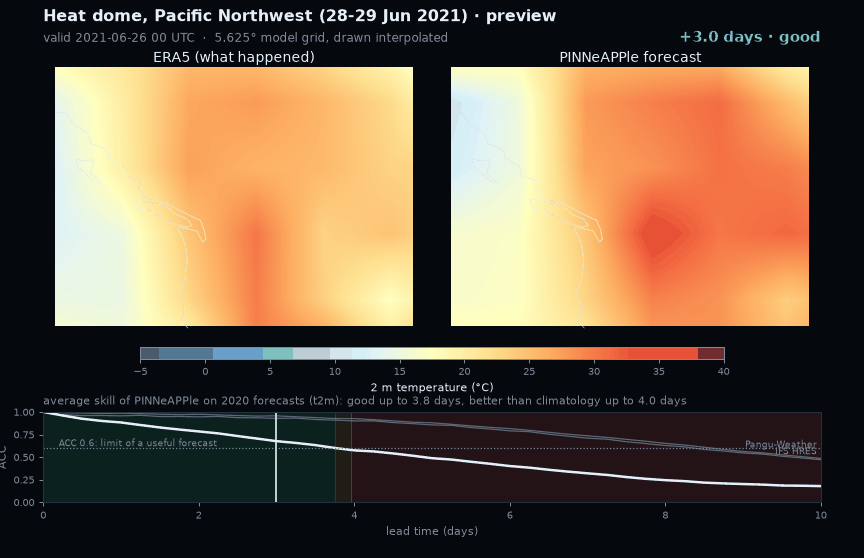
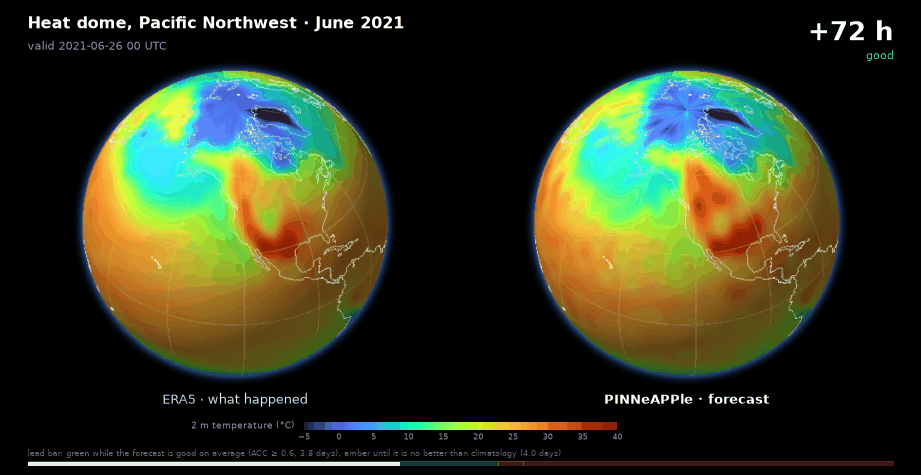
Weather: Earth-2 style forecast animation (lit globes, smooth fields, lead bar)
earth2_gif draws ERA5 and the forecast on lit globes over black: cubic upsampling
on the sphere for display, interpolated frames between the 6-hour states, a slow
rotation, an atmosphere glow, coastlines and a faint graticule drawn into the
bitmap, the lead in large type and a thin lead bar coloured by the horizon. The
event GIFs of run_use_cases.py use it, and the heat-dome preview is redrawn.

diff --git a/pinneapple_physics/weather/viz.py b/pinneapple_physics/weather/viz.py
@@ -238,3 +238,161 @@ def skill_figure(path, leads_h, curves: dict, horizons_by_model: dict, var: str,
     fig.savefig(path, dpi=dpi, facecolor=BG)
     plt.close(fig)
     return Path(path)
+
+
+# ------------------------------------------------------------------ Earth-2 style globes
+
+def upsample_sphere(field: np.ndarray, lat: np.ndarray, lon: np.ndarray, factor: int = 4):
+    """Cubic upsampling of a (lat, lon) field, periodic in longitude, for display only."""
+    from scipy.ndimage import zoom
+
+    p = 3
+    padded = np.concatenate([field[:, -p:], field, field[:, :p]], axis=1)
+    padded = np.concatenate([padded[:1].repeat(p, 0), padded, padded[-1:].repeat(p, 0)], axis=0)
+    z = zoom(padded, factor, order=3, mode="nearest")
+    z = z[p * factor:-p * factor, p * factor:-p * factor]
+    dlat, dlon = lat[1] - lat[0], lon[1] - lon[0]
+    new_lat = lat[0] - dlat / 2 + (np.arange(z.shape[0]) + 0.5) * dlat / factor
+    new_lon = lon[0] - dlon / 2 + (np.arange(z.shape[1]) + 0.5) * dlon / factor
+    return z, new_lat, np.mod(new_lon, 360.0)
+
+
+def _globe_rgb(field, lat, lon, center, size, cmap, norm, lines):
+    """RGBA image of a lit globe: field colours, day-side shading, coastlines and graticule."""
+    la0, lo0 = np.deg2rad(center[0]), np.deg2rad(center[1])
+    u = np.linspace(-1.12, 1.12, size)
+    X, Y = np.meshgrid(u, -u)
+    r2 = X ** 2 + Y ** 2
+    inside = r2 <= 1
+    z = np.sqrt(np.clip(1 - r2, 0, None))
+    qlat = np.arcsin(np.clip(Y * np.cos(la0) + z * np.sin(la0), -1, 1))
+    qlon = lo0 + np.arctan2(X, z * np.cos(la0) - Y * np.sin(la0))
+    f = _sample(field, lat, lon, np.rad2deg(qlat), np.rad2deg(qlon))
+    rgb = cmap(norm(np.where(inside, f, np.nan)))[..., :3]
+    light = np.array([-0.45, 0.55, 0.70])
+    light /= np.linalg.norm(light)
+    shade = np.clip(X * light[0] + Y * light[1] + z * light[2], 0, 1)
+    rgb = rgb * (0.38 + 0.72 * shade[..., None]) + 0.10 * shade[..., None] ** 12      # diffuse + soft highlight
+    # graticule every 30 degrees
+    glat, glon = np.rad2deg(qlat), np.mod(np.rad2deg(qlon), 360)
+    grid = ((np.abs(((glat + 15) % 30) - 15) < 0.3) |
+            ((np.abs(((glon + 15) % 30) - 15) < 0.3 / np.maximum(np.cos(qlat), 0.2)) & (np.abs(glat) < 80)))
+    rgb = np.where((grid & inside)[..., None], rgb * 0.85 + 0.15 * 0.85, rgb)
+    out = np.zeros((size, size, 4))
+    out[..., :3] = np.clip(rgb, 0, 1)
+    out[..., 3] = inside.astype(float)
+    # atmosphere: a thin blue glow just outside the limb
+    rr = np.sqrt(r2)
+    glow = np.clip(1 - (rr - 1) / 0.09, 0, 1) * (rr > 1)
+    out[..., :3] = np.where((rr > 1)[..., None], np.array([0.30, 0.55, 1.0]) * glow[..., None], out[..., :3])
+    out[..., 3] = np.where(rr > 1, 0.55 * glow ** 2, out[..., 3])
+    # coastlines (drawn into the image so the frame is a single bitmap)
+    for ln in lines:
+        lo_, la_ = np.deg2rad(ln[:, 0]), np.deg2rad(ln[:, 1])
+        cosc = np.sin(la0) * np.sin(la_) + np.cos(la0) * np.cos(la_) * np.cos(lo_ - lo0)
+        px = np.cos(la_) * np.sin(lo_ - lo0)
+        py = np.cos(la0) * np.sin(la_) - np.sin(la0) * np.cos(la_) * np.cos(lo_ - lo0)
+        ix = np.round((px / 1.12 + 1) / 2 * (size - 1)).astype(int)
+        iy = np.round((1 - py / 1.12) / 2 * (size - 1)).astype(int)
+        ok = (cosc > 0.02) & (ix >= 0) & (ix < size) & (iy >= 0) & (iy < size)
+        for a, b in ((ix, iy),):
+            # densify segments so the line is continuous
+            for k in range(len(a) - 1):
+                if ok[k] and ok[k + 1]:
+                    n = int(max(abs(a[k + 1] - a[k]), abs(b[k + 1] - b[k]))) + 1
+                    xs = np.linspace(a[k], a[k + 1], n).round().astype(int)
+                    ys = np.linspace(b[k], b[k + 1], n).round().astype(int)
+                    out[ys, xs, :3] = out[ys, xs, :3] * 0.5 + 0.5 * np.array([0.93, 0.95, 0.98])
+    return out
+
+
+def earth2_gif(path, var, truth, forecast, lat, lon, times, *, lead_hours, horizon, title, center=(20.0, -30.0),
+               rotate_deg_per_frame=0.0, region=None, model_name="PINNeAPPle", vmin=None, vmax=None,
+               substeps=3, size=420, fps=12, dpi=80, cmap=None):
+    """NVIDIA Earth-2 style animation: ERA5 (left) and the forecast (right) on lit globes over black, smooth fields
+    (cubic upsampling on the sphere, ``substeps`` interpolated frames between 6-hour states), the globe slowly
+    rotating, the lead in large type and a thin lead bar coloured by the horizon (good, fading, no skill).
+    ``truth``/``forecast``: (n, lat, lon) in physical units at ``lead_hours``."""
+    import matplotlib
+
+    matplotlib.use("Agg")
+    import matplotlib.pyplot as plt
+    from matplotlib.animation import FuncAnimation, PillowWriter
+    from matplotlib.colors import Normalize
+
+    T = display_units(var, np.asarray(truth, float))
+    F = display_units(var, np.asarray(forecast, float))
+    lo = np.nanpercentile(T, 1) if vmin is None else vmin
+    hi = np.nanpercentile(T, 99) if vmax is None else vmax
+    cm = plt.get_cmap(cmap or {"t2m": "turbo", "t850": "turbo", "wind10": "magma", "msl": "viridis",
+                               "z500": "viridis", "tp6": "Blues"}.get(var, "turbo"))
+    norm = Normalize(lo, hi)
+    lines = coastlines()
+    up = [upsample_sphere(x, lat, lon) for x in T], [upsample_sphere(x, lat, lon) for x in F]
+    flat, flon = up[0][0][1], up[0][0][2]
+    TU = np.stack([u[0] for u in up[0]])
+    FU = np.stack([u[0] for u in up[1]])
+    n = len(T)
+    frames = [(k, s) for k in range(n - 1) for s in range(substeps)] + [(n - 1, 0)]
+
+    fig = plt.figure(figsize=(12.8, 6.6), facecolor="black")
+    axL = fig.add_axes([0.02, 0.17, 0.47, 0.72])
+    axR = fig.add_axes([0.51, 0.17, 0.47, 0.72])
+    ims = []
+    for ax in (axL, axR):
+        ax.set_facecolor("black")
+        ax.axis("off")
+        ims.append(ax.imshow(np.zeros((size, size, 4)), interpolation="bilinear"))
+    fig.text(0.255, 0.15, "ERA5 · what happened", color="#c9d3df", ha="center", fontsize=13)
+    fig.text(0.745, 0.15, f"{model_name} · forecast", color="#ffffff", ha="center", fontsize=13, weight="bold")
+    fig.text(0.03, 0.94, title, color="white", fontsize=16, weight="bold")
+    stamp = fig.text(0.03, 0.895, "", color="#8f9bab", fontsize=11)
+    big = fig.text(0.97, 0.915, "", color="white", fontsize=26, weight="bold", ha="right")
+    state = fig.text(0.97, 0.875, "", color=GOOD, fontsize=11, ha="right")
+    # thin colour bar and lead bar
+    cax = fig.add_axes([0.33, 0.095, 0.34, 0.016])
+    cb = fig.colorbar(plt.cm.ScalarMappable(norm=norm, cmap=cm), cax=cax, orientation="horizontal")
+    cb.outline.set_visible(False)
+    cb.ax.tick_params(colors="#8f9bab", labelsize=8, length=0)
+    fig.text(0.32, 0.098, LABEL.get(var, var), color="#8f9bab", fontsize=9, ha="right")
+    bar = fig.add_axes([0.03, 0.018, 0.94, 0.012])
+    bar.set_xlim(0, lead_hours[-1])
+    bar.set_ylim(0, 1)
+    bar.axis("off")
+    U, N, L = horizon["useful_hours"], horizon["no_skill_hours"], lead_hours[-1]
+    bar.axvspan(0, min(U, L), color=GOOD, alpha=0.25)
+    if U < L:
+        bar.axvspan(U, min(N, L), color=FADING, alpha=0.25)
+    if N < L:
+        bar.axvspan(N, L, color=POOR, alpha=0.25)
+    from matplotlib.patches import Rectangle
+
+    prog = bar.add_patch(Rectangle((0, 0.15), 0, 0.7, color="white", alpha=0.9))
+    fig.text(0.03, 0.04, f"lead bar: green while the forecast is good on average (ACC ≥ 0.6, {U / 24:.1f} days), "
+             f"amber until it is no better than climatology" + (f" ({N / 24:.1f} days)" if np.isfinite(N) else ""),
+             color="#5f6b7a", fontsize=8)
+
+    def frame(i):
+        k, s = frames[i]
+        a = s / substeps
+        t_f = TU[k] if k == n - 1 else (1 - a) * TU[k] + a * TU[k + 1]
+        f_f = FU[k] if k == n - 1 else (1 - a) * FU[k] + a * FU[k + 1]
+        c = (center[0], center[1] + rotate_deg_per_frame * i)
+        ims[0].set_data(_globe_rgb(t_f, flat, flon, c, size, cm, norm, lines))
+        ims[1].set_data(_globe_rgb(f_f, flat, flon, c, size, cm, norm, lines))
+        lead = lead_hours[k] + a * (lead_hours[min(k + 1, n - 1)] - lead_hours[k])
+        st, col = _status(lead, horizon)
+        big.set_text(f"+{lead:.0f} h")
+        state.set_text(st)
+        state.set_color(col)
+        tv = times[k] + np.timedelta64(int(a * 6 * 60), "m")
+        stamp.set_text(f"valid {np.datetime_as_string(tv, unit='h').replace('T', ' ')} UTC")
+        prog.set_width(lead)
+        return ims + [big, state, stamp]
+
+    anim = FuncAnimation(fig, frame, frames=len(frames), blit=False)
+    path = Path(path)
+    anim.save(path, writer=PillowWriter(fps=fps), dpi=dpi, savefig_kwargs={"facecolor": "black"})
+    plt.close(fig)
+    _ = region
+    return path

diff --git a/examples/weather_forecasting/run_use_cases.py b/examples/weather_forecasting/run_use_cases.py
@@ -29,7 +29,7 @@ from pinneapple_physics.weather.evaluate import (
 )
 from pinneapple_physics.weather.events import EVENTS, event_states, region_mask
 from pinneapple_physics.weather.train import Forecaster
-from pinneapple_physics.weather.viz import forecast_gif, skill_figure
+from pinneapple_physics.weather.viz import earth2_gif, skill_figure
 
 STEPS = 40                      # 10 days of 6-hour steps
 LEADS_H = np.arange(STEPS + 1) * 6
@@ -165,10 +165,11 @@ def run_event(ev, fc, store, clim, out, skill, horizon_by_var, pub, log=print):
     extra = {n: (LEADS_H, skill[n][ev.var]["acc"]) for n in ("IFS HRES", "Pangu-Weather")
              if n in skill and ev.var in skill[n] and np.isfinite(skill[n][ev.var]["acc"][1:]).any()}
     n_frames = min(STEPS, k_peak + 8)
-    gif = forecast_gif(out / f"{ev.key}.gif", ev.var, phys[1:n_frames + 2, c], r[:n_frames + 1, c], store.lat,
-                       store.lon, times[1:n_frames + 2], skill_leads_h=LEADS_H, skill_acc=acc_curve, horizon=hz,
-                       region=ev.region, title=ev.title, model_name=MODEL, vmin=ev.vmin, vmax=ev.vmax,
-                       extra_series=extra)
+    gif = earth2_gif(out / f"{ev.key}.gif", ev.var, phys[1:n_frames + 2, c], r[:n_frames + 1, c], store.lat,
+                     store.lon, times[1:n_frames + 2], lead_hours=LEADS_H[:n_frames + 1], horizon=hz,
+                     title=ev.title, center=ev.center, rotate_deg_per_frame=0.12, model_name=MODEL,
+                     vmin=ev.vmin, vmax=ev.vmax)
+    _ = (acc_curve, extra)
     return {"event": ev.key, "title": ev.title, "what": ev.what, "variable": ev.var, "score": ev.score,
             "tolerance": tol, "ahead": ahead, "well_forecast_days_ahead": well_ahead, "gif": gif.name}
 

diff --git a/tests/test_weather_forecasting.py b/tests/test_weather_forecasting.py
@@ -90,3 +90,22 @@ def test_forecast_gif_and_skill_figure(tmp_path):
     assert g.stat().st_size > 1000
     s = skill_figure(tmp_path / "s.png", leads, {"PINNeAPPle": acc_curve}, {"PINNeAPPle": hz["useful_hours"]}, "z500")
     assert s.stat().st_size > 1000
+
+
+def test_earth2_style_globes(tmp_path):
+    import matplotlib.pyplot as plt
+    from matplotlib.colors import Normalize
+
+    from pinneapple_physics.weather.viz import _globe_rgb, coastlines, earth2_gif, upsample_sphere
+
+    f = np.cos(np.deg2rad(LAT))[:, None] * np.ones((32, 64))
+    up, la, lo = upsample_sphere(f, LAT, LON, factor=2)
+    assert up.shape == (64, 128) and abs(up.max() - f.max()) < 0.05
+    img = _globe_rgb(up, la, lo, (0.0, 0.0), 64, plt.get_cmap("turbo"), Normalize(0, 1), coastlines())
+    assert img.shape == (64, 64, 4) and img[32, 32, 3] == 1 and img[0, 0, 3] == 0
+    truth = 280 + np.random.default_rng(2).normal(size=(2, 32, 64))
+    times = np.array(["2021-06-28T00", "2021-06-28T06"], dtype="datetime64[ns]")
+    g = earth2_gif(tmp_path / "g.gif", "t2m", truth, truth + 0.3, LAT, LON, times, lead_hours=np.array([0.0, 6.0]),
+                   horizon={"useful_hours": 90.0, "no_skill_hours": 100.0}, title="test", substeps=2, size=48, dpi=30)
+    assert g.stat().st_size > 1000
+
